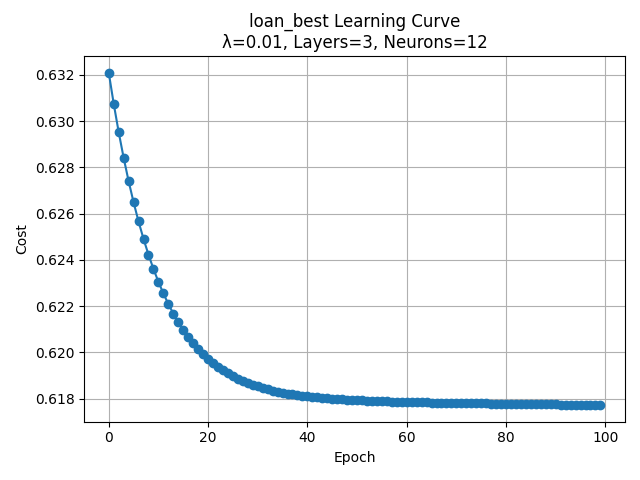
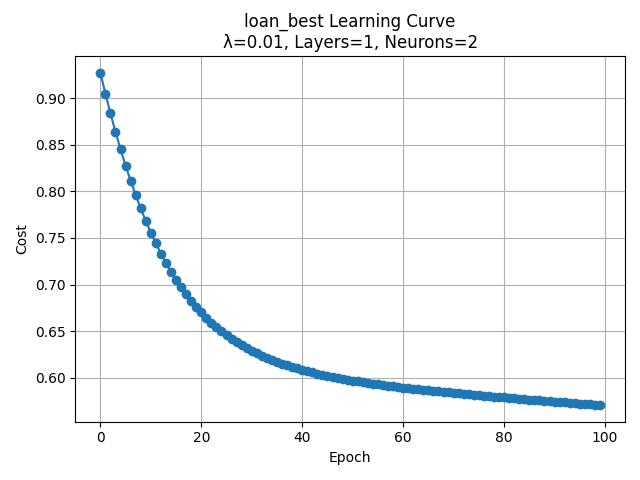
good but f1, accuracy performace identical

diff --git a/nn.py b/nn.py
@@ -8,7 +8,6 @@ from sklearn.compose import ColumnTransformer
 from sklearn.metrics import accuracy_score, f1_score
 from propagation import backpropagation, forward_propagation, cost_function
 
-
 # === Neural Network Class ===
 class NeuralNetwork:
     def __init__(self, layer_sizes, alpha=0.01, lam=0.0):
@@ -95,8 +94,8 @@ def save_metrics_table_as_image(results_by_dataset):
         cell_data = []
         for key, val in dataset_results.items():
             layer_idx = int(key.split('_')[0][1:]) - 1
-            hidden_layer = hidden_layers_list[layer_idx]
-            lam = lam_list[layer_idx]
+            hidden_layer = hidden_layers_list[layer_idx // len(lambda_reg_list)]
+            lam = lambda_reg_list[layer_idx % len(lambda_reg_list)]
             cell_data.append([
                 str(hidden_layer),
                 f"{lam:.2f}",
@@ -116,38 +115,46 @@ def save_metrics_table_as_image(results_by_dataset):
 # === Main Execution ===
 if __name__ == "__main__":
     os.makedirs("learning_curve", exist_ok=True)
-    hidden_layers_list = [[4, 4, 4], [2, 4, 6], [2], [6], [2, 4, 2], [6, 6, 6]]
-    lam_list = [0.01, 0.02, 0.03, 0.1, 0.2, 1]
+    hidden_layers_list = [[2], [4, 4, 4], [6, 6, 6, 6]]
+    lambda_reg_list = [0.01, 0.1]
     alpha = 0.1
     epochs = 100
-    results_by_dataset = {"WDBC": {}, "Loan": {}}
-    results_with_model = {}
-    X_wdbc, y_wdbc = load_wdbc_dataset("wdbc.csv")
-    X_loan, y_loan = load_loan_dataset("loan.csv")
-    for i, (hidden_layer, lam) in enumerate(zip(hidden_layers_list, lam_list)):
-        for dataset_name, (X, y) in [("WDBC", (X_wdbc, y_wdbc)), ("Loan", (X_loan, y_loan))]:
-            print(f"\n📘 {dataset_name}: hidden={hidden_layer}, λ={lam}")
-            model = NeuralNetwork([X.shape[1]] + hidden_layer + [1], alpha=alpha, lam=lam)
-            model.fit(X, y, epochs=epochs)
-            y_pred = (model.predict(X) >= 0.5).astype(int).ravel()
-            y_true = y.ravel()
-            acc = accuracy_score(y_true, y_pred)
-            f1 = f1_score(y_true, y_pred, zero_division=1)
-            config_name = f"h{i+1}_λ{lam}"
-            results_by_dataset[dataset_name][config_name] = {"acc": acc, "f1": f1}
-            results_with_model[f"{dataset_name}_{config_name}"] = {
-                "model": model,
-                "dataset_name": dataset_name,
-                "acc": acc,
-                "f1": f1
-            }
-    for dataset in ["WDBC", "Loan"]:
-        filtered = {k: v for k, v in results_with_model.items() if v['dataset_name'] == dataset}
+
+    for dataset_name, (X, y) in {"WDBC": load_wdbc_dataset("wdbc.csv"), "Loan": load_loan_dataset("loan.csv")}.items():
+        results_by_dataset = {dataset_name: {}}
+        results_with_model = {}
+        config_idx = 0
+
+        for i, hidden_layer in enumerate(hidden_layers_list):
+            for j, lam in enumerate(lambda_reg_list):
+                print(f"\n📘 {dataset_name}: hidden={hidden_layer}, λ={lam}")
+                model = NeuralNetwork([X.shape[1]] + hidden_layer + [1], alpha=alpha, lam=lam)
+                model.fit(X, y, epochs=epochs)
+
+                y_pred = (model.predict(X) >= 0.5).astype(int).ravel()
+                y_true = y.ravel()
+                acc = accuracy_score(y_true, y_pred)
+                f1 = f1_score(y_true, y_pred, zero_division=1)
+
+                config_name = f"h{config_idx+1}_λ{lam}"
+                results_by_dataset[dataset_name][config_name] = {"acc": acc, "f1": f1}
+                results_with_model[f"{dataset_name}_{config_name}"] = {
+                    "model": model,
+                    "dataset_name": dataset_name,
+                    "acc": acc,
+                    "f1": f1
+                }
+                config_idx += 1
+
+        # === Best model (per dataset)
+        filtered = {k: v for k, v in results_with_model.items() if v['dataset_name'] == dataset_name}
         best_key = max(filtered.items(), key=lambda x: (x[1]['f1'], x[1]['acc']))[0]
         best_model = results_with_model[best_key]["model"]
         layer_idx = int(best_key.split('_')[1][1:]) - 1
-        best_hidden_layer = hidden_layers_list[layer_idx]
-        best_lam = lam_list[layer_idx]
-        print(f"\n🎯 Best {dataset} Model: {best_key}")
-        plot_learning_curve(best_model, dataset.lower() + "_best", best_hidden_layer, best_lam)
-    save_metrics_table_as_image(results_by_dataset)
+        best_hidden_layer = hidden_layers_list[layer_idx // len(lambda_reg_list)]
+        best_lam = lambda_reg_list[layer_idx % len(lambda_reg_list)]
+        print(f"\n🎯 Best {dataset_name} Model: {best_key}")
+        plot_learning_curve(best_model, dataset_name.lower() + "_best", best_hidden_layer, best_lam)
+
+        # === Save performance table (per dataset)
+        save_metrics_table_as_image(results_by_dataset)
